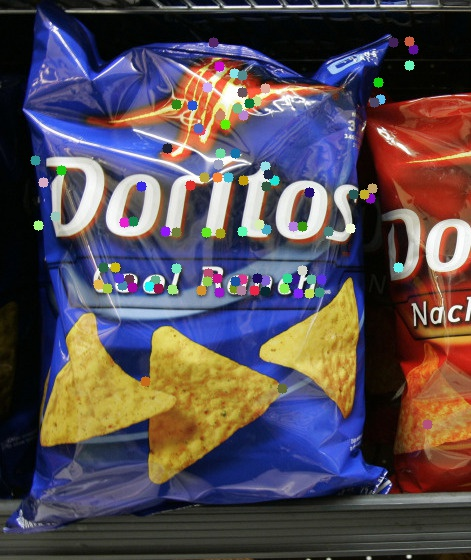
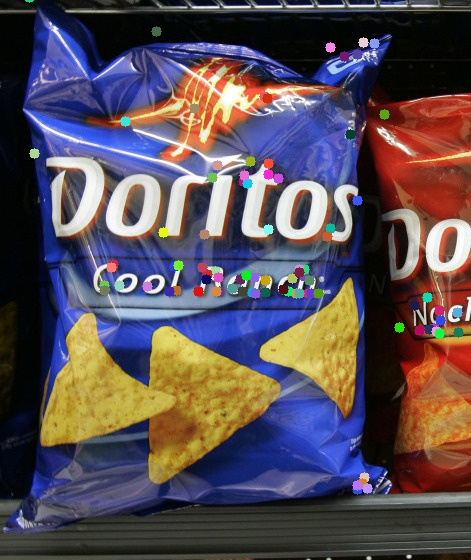
added oflow results

diff --git a/features-matching/features_matchers.py b/features-matching/features_matchers.py
@@ -9,8 +9,8 @@ import _pickle as pickle
 #import cPickle as pickle
 import math
 import numpy as np
-from scipy.interpolate import griddata
-#from skimage.transform import PiecewiseAffineTransform, PolynomialTransform, warp
+#from scipy.interpolate import griddata
+from skimage.transform import PiecewiseAffineTransform, PolynomialTransform, warp
 
 def pickle_keypoints(keypoints, descriptors):
     i = 0
@@ -24,6 +24,7 @@ def pickle_keypoints(keypoints, descriptors):
 def unpickle_keypoints(array):
     keypoints = []
     descriptors = []
+
     for point in array:
         temp_feature = cv2.KeyPoint(x=point[0][0],y=point[0][1],_size=point[1], _angle=point[2], _response=point[3], _octave=point[4], _class_id=point[5])
         temp_descriptor = point[6]
@@ -33,7 +34,8 @@ def unpickle_keypoints(array):
 
 def computeDescriptions(img, featsfilename = None):
     if (featsfilename and os.path.exists(featsfilename)):
-        return unpickle_keypoints(featsfilename)
+        feats = pickle.load( open(featsfilename , "rb" ) )
+        return unpickle_keypoints(feats)
     
     # Initiate SIFT detector
     sift = cv2.xfeatures2d.SIFT_create(0,3,0.07)
@@ -41,10 +43,8 @@ def computeDescriptions(img, featsfilename = None):
     #compute keypoint & descriptions
     kp1, des1 = sift.detectAndCompute(img,None)
     if featsfilename:
-        temp_array = []
         temp = pickle_keypoints(kp1, des1)
-        temp_array.append(temp)
-        pickle.dump(temp_array, open(featsfilename, "wb"))
+        pickle.dump(temp, open(featsfilename, "wb"))
         out=cv2.drawKeypoints(img, kp1,  0, color=(0,255,0), flags=0)
         cv2.imwrite( featsfilename+"_kps.png", out);
     return kp1, des1
@@ -55,6 +55,15 @@ def genMatcher():
     flann_params = dict(algorithm = 1, trees = 5)
     matcher = cv2.FlannBasedMatcher(flann_params, {})
     return matcher
+
+def similarityScore(src, dst, mask):
+    dst_masked =  dst * mask
+    #for viz
+    diff = cv2.absdiff(dst,src)
+    cv2.imwrite("difference.jpg",diff)            
+    score = cv2.matchTemplate(src, dst,cv2.TM_CCORR_NORMED, None, mask)
+    return score
+
 
 def main():
 
@@ -110,75 +119,75 @@ def main():
                 boundingRect[3] = h2-1            
             src_transformed_cropped = src_transformed[boundingRect[1]:boundingRect[1]+boundingRect[3], boundingRect[0]:boundingRect[0]+boundingRect[2]]
             dst_cropped = dst_image[boundingRect[1]:boundingRect[1]+boundingRect[3], boundingRect[0]:boundingRect[0]+boundingRect[2]].copy()
-            score = cv2.matchTemplate(src_transformed_cropped, dst_cropped,cv2.TM_CCOEFF_NORMED)
+
+            src_transformed_cropped_gray = cv2.cvtColor(src_transformed_cropped , cv2.COLOR_BGR2GRAY)
+            dst_cropped_gray = cv2.cvtColor(dst_cropped , cv2.COLOR_BGR2GRAY)
+            _, mask = cv2.threshold(src_transformed_cropped_gray, 0, 1, cv2.THRESH_BINARY)        
+            mask = cv2.merge((mask, mask, mask))
+            score = similarityScore(src_transformed_cropped, dst_cropped, mask)
 
             print("Similarity Score: {}".format(score))
 
             cv2.imwrite("src_transfromed.jpg",src_transformed_cropped)
-            cv2.imwrite("dst_orig.jpg",dst_cropped)
 
-            diff = cv2.absdiff(dst_cropped,src_transformed_cropped)
-            #score2 = np.mean(diff)/255
-            #print(score2)
-            cv2.imwrite("homography_difference.jpg",diff)
-            
             dst_image = cv2.polylines(dst_image,[np.int32(dst)],True,255,3, cv2.LINE_AA)
             
-            
             #weighted blend for vizualization
-            src_transformed = 0.5*src_transformed+0.5*dst_image
-            cv2.imwrite("homography_transform.jpg",src_transformed)
+            cv2.imwrite("homography_transform",0.5*src_transformed+0.5*dst_image)
+            cv2.imwrite("dst_overlay.jpg",0.5*src_transformed_cropped+0.5*dst_cropped)
 
         if OPTICAL_FLOW:
 
             # Parameters for lucas kanade optical flow
             lk_params = dict( winSize  = (100,100),
                               maxLevel = 2,
-                              criteria = (cv2.TERM_CRITERIA_EPS |cv2.TERM_CRITERIA_COUNT, 30, 0.05))
+                              criteria = (cv2.TERM_CRITERIA_EPS |cv2.TERM_CRITERIA_COUNT , 30, 0.1))
             
             # params for ShiTomasi corner detection
             feature_params = dict( maxCorners = 2000,
                                    qualityLevel = 0.05,
-                                   minDistance = 7,
-                                   blockSize = 7)
+                                   minDistance = 3,
+                                   blockSize = 3)
 
-            src_transformed_cropped_gray = cv2.cvtColor(src_transformed_cropped , cv2.COLOR_BGR2GRAY)
-            dst_cropped_gray = cv2.cvtColor(dst_cropped , cv2.COLOR_BGR2GRAY)
             color = np.random.randint(0,255,(100,3))
-            p0 = cv2.goodFeaturesToTrack(src_transformed_cropped_gray, mask = None, **feature_params)
+            p0 = cv2.goodFeaturesToTrack(dst_cropped_gray, mask = None, **feature_params)
             #_, p0 = computeDescriptions(src_transformed_cropped)
             
-            p1, st, err = cv2.calcOpticalFlowPyrLK(src_transformed_cropped, dst_cropped, p0, None, **lk_params)
+            p1, st, err = cv2.calcOpticalFlowPyrLK(dst_cropped, src_transformed_cropped, p0, None, **lk_params)
             # Select good points
             good_old = p0[st==1]
             good_new = p1[st==1]
 
+
+            src_oflow_viz = src_transformed_cropped.copy()
+            dst_oflow_viz = dst_cropped.copy()
             for i,(new,old) in enumerate(zip(good_new,good_old)):
                 try:
                     a,b = new.ravel()
                     c,d = old.ravel()
-                    src = cv2.line(src_transformed_cropped, (a,b),(c,d), color[i].tolist(), 2)
-                    dst = cv2.circle(dst_cropped,(a,b),5,color[i].tolist(),-1)
+                    src_oflow_viz = cv2.line(src_oflow_viz, (a,b),(c,d), color[i].tolist(), 2)
+                    dst_oflow_viz = cv2.circle(dst_oflow_viz,(a,b),5,color[i].tolist(),-1)
                 except:
                     continue
                 
-            cv2.imwrite("tmp3.jpg",src);
-            cv2.imwrite("tmp4.jpg",dst);
+            cv2.imwrite("tmp3.jpg",src_oflow_viz);
+            cv2.imwrite("tmp4.jpg",dst_oflow_viz);
 
-            """
-            h,w,_ = dst_cropped.shape
 
-            grid_x, grid_y = np.mgrid[0:h-1:h*1j, 0:w-1:w*1j]
-            #grid_z = griddata(dst_pts.reshape(-1,2), src_pts.reshape(-1,2), (grid_x, grid_y), method='cubic')
-            grid_z = griddata(good_old, good_new, (grid_x, grid_y), method='cubic')
-            map_x = np.append([], [ar[:,1] for ar in grid_z]).reshape(h,w)
-            map_y = np.append([], [ar[:,0] for ar in grid_z]).reshape(h,w)
-            map_x_32 = map_x.astype('float32')
-            map_y_32 = map_y.astype('float32')
-            src_transformed_oflow = cv2.remap(src_transformed_cropped_gray, map_x_32 , map_y_32 , cv2.INTER_CUBIC)
+            tform = PiecewiseAffineTransform()
+            tform.estimate(good_old,good_new)
             
-            cv2.imwrite("oflow_transform.jpg", src_transformed_oflow );
-            """
+            out = (255*warp(src_transformed_cropped, tform)).astype(np.uint8)
+            out_gray = cv2.cvtColor(out, cv2.COLOR_BGR2GRAY)
+            _, mask = cv2.threshold(out_gray, 0, 1, cv2.THRESH_BINARY)        
+            mask = cv2.merge((mask, mask, mask))
+            score = similarityScore(out, dst_cropped, mask)
+            print("Similarity Score: {}".format(score))
+
+            cv2.imwrite("oflow.jpg",out)
+            out = out*0.5+dst_cropped*0.5
+            cv2.imwrite("piecewise.jpg",out)
+
     else:
         print( "Not enough matches are found - {}/{}".format(len(good), MIN_MATCH_COUNT) )
         matchesMask = None

diff --git a/features-matching/README.md b/features-matching/README.md
@@ -1,6 +1,7 @@
-# Feature Matching
+# Features Matching
 
-This project implements feature generation and matching using OpenCV library. We observe two classes of object types: The first is solid cube shaped object such as a cereal box that is ideal for homography transforms and post processes. The second is deformable object such as a bag of chips that can be physically distored between two images and homographies and post processing may fail on them. In this project we observe the usage of optical flow on the 2nd category to check viability of estimating such distorions. 
+This project implements feature generation and matching using OpenCV library. We observe two classes of object types: The first is solid cube shaped object such as a cereal box that is ideal for homography transforms and post processes. The second is deformable object such as a bag of chips that can be physically distored between two images and homographies and post processing may fail on them. In this project we observe the usage of optical flow on the 2nd category to check viability of estimating such distortions. I find that the optical flow optimization methodpost homography is robust to deformable objects and provides more complex mappings from source to destination images which had been a significant limitation of homographies alone.
+
 
 ### Feature generation with SIFT
 <p float="left">
@@ -10,12 +11,21 @@ This project implements feature generation and matching using OpenCV library. We
   <img src="imgs/mac-cheeze-table_feats.kp_kps.png" width="250" />	
 </p>
 
+```
+Item category 1: Solid Box
+```
+
 <p float="left">
   <img src="imgs/doritos.jpg" width="150" />
   <img src="imgs/doritos_feats.kp_kps.png" width="150" />
   <img src="imgs/doritos_store.jpg" width="250" />	
   <img src="imgs/doritos_store_feats.kp_kps.png" width="250" />	
 </p>
+
+```
+Item category 2: Deformable Bags
+```
+
 
 ### Feature matching with FLANN based KNN Matcher
 <p float="left">
@@ -31,24 +41,39 @@ This project implements feature generation and matching using OpenCV library. We
   <img src="imgs/transform.jpg" width="800" />
 </p>
 <p float="left">
-  <img src="imgs/homography_transform2.jpg" width="800" />
+  <img src="imgs/homography_transform1.jpg" width="800" />
 </p>
 
 Below shows the source and the destination images rescaled to destination sizes with source images transformed to the perspectives of the destination image. The third image shows difference in pixels between the two. Note large difference in the 2nd category item.
+
 <p float="left">
   <img src="imgs/src_transformed1.jpg" width="250" />
-  <img src="imgs/dst_orig1.jpg" width="250" />
+  <img src="imgs/dst_overlay1.jpg" width="250" />
   <img src="imgs/homography_difference1.jpg" width="250" />
+
+
+```
+Normalized Correlation Score: 0.977
+```
 
 <p float="left">
   <img src="imgs/src_transformed.jpg" width="250" />
-  <img src="imgs/dst_orig.jpg" width="250" />
+  <img src="imgs/dst_overlay.jpg" width="250" />
   <img src="imgs/homography_difference.jpg" width="250" />
 </p>
 
+```
+Normalized Correlation Score: 0.742
+```
+
+The normalized correlation score shows us the similarity between source and destination images when overlaid on top of each other. Note that the score is way higher 0.977 for category 1 item vs category 2 item with score of 0.742 only. This difference can also be observed with the difference image shown in the third column above.
+
+
 ### Optical Flow to visualize disortions
 
-The usage of Optical flow provides vectors to the deformation in the destination object with respect to source.
+The usage of Optical flow provides vectors to the deformation in the destination object with respect to source. Note minimal flow in the first category, vs large flow in the second category as expected.
+
+
 <p float="left">
   <img src="imgs/tmp2.jpg" width="400" />
   <img src="imgs/tmp1.jpg" width="400" />	
@@ -58,4 +83,65 @@ The usage of Optical flow provides vectors to the deformation in the destination
   <img src="imgs/tmp4.jpg" width="400" />
   <img src="imgs/tmp3.jpg" width="400" />	
 </p>
-    
+
+Using optical flow, we track the motion of each feature point from source to the destination image. We then remap the source image to destination using SKImages Piecewise Affine transform function. The result is a significant increase in the correlation score! 
+
+In the images below, left is source image transformed post optical flow. The middle shows alignment when overlayed. The third shows difference in pixels
+
+<p float="left">
+  <img src="imgs/oflow1.jpg" width="250" />
+  <img src="imgs/piecewise1.jpg" width="250" />
+  <img src="imgs/difference1.jpg" width="250" />
+</p>
+
+```
+Normalized Correlation Score is 0.982
+```
+
+
+<p float="left">
+  <img src="imgs/oflow.jpg" width="250" />
+  <img src="imgs/piecewise.jpg" width="250" />
+  <img src="imgs/difference.jpg" width="250" />
+</p>
+
+```
+Normalized Correlation Score has increased to 0.806 from 0.742
+```
+
+### Another Item of Category 2
+
+
+<p float="left">
+  <img src="imgs/large_bag.jpg" width="400" />
+  <img src="imgs/large_bag_scene.jpg" width="400" />
+</p>
+
+```
+Source and Destination images.
+```
+
+<p float="left">
+  <img src="imgs/homography_transform2.jpg" width="800" />
+</p>
+
+
+<p float="left">
+  <img src="imgs/src_transformed2.jpg" width="250" />
+  <img src="imgs/dst_overlay2.jpg" width="250" />
+  <img src="imgs/homography_difference2.jpg" width="250" />
+</p>
+
+```
+Homography Transform. Normalized Correlation Score is 0.892
+```
+<p float="left">
+  <img src="imgs/oflow2.jpg" width="250" />
+  <img src="imgs/piecewise2.jpg" width="250" />
+  <img src="imgs/difference2.jpg" width="250" />
+</p>
+
+```
+Optical Flow based Transform. Normalized Correlation Score has increase to 0.93
+```
+
